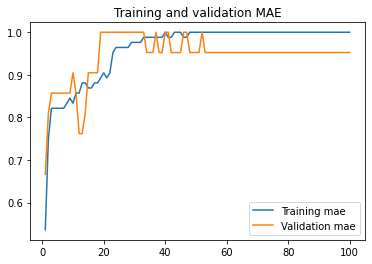
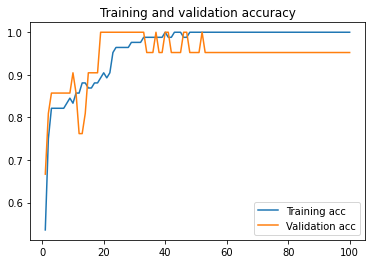
Fixed some details

diff --git a/README.md b/README.md
@@ -219,9 +219,9 @@ val_loss = history.history['val_loss']
 
 epochs = range(1, len(acc)+1)
 
-plt.plot(epochs, acc, label='Training mae')
-plt.plot(epochs, val_acc, label='Validation mae')
-plt.title('Training and validation MAE')
+plt.plot(epochs, acc, label='Training acc')
+plt.plot(epochs, val_acc, label='Validation acc')
+plt.title('Training and validation accuracy')
 plt.legend()
 
 plt.figure()
